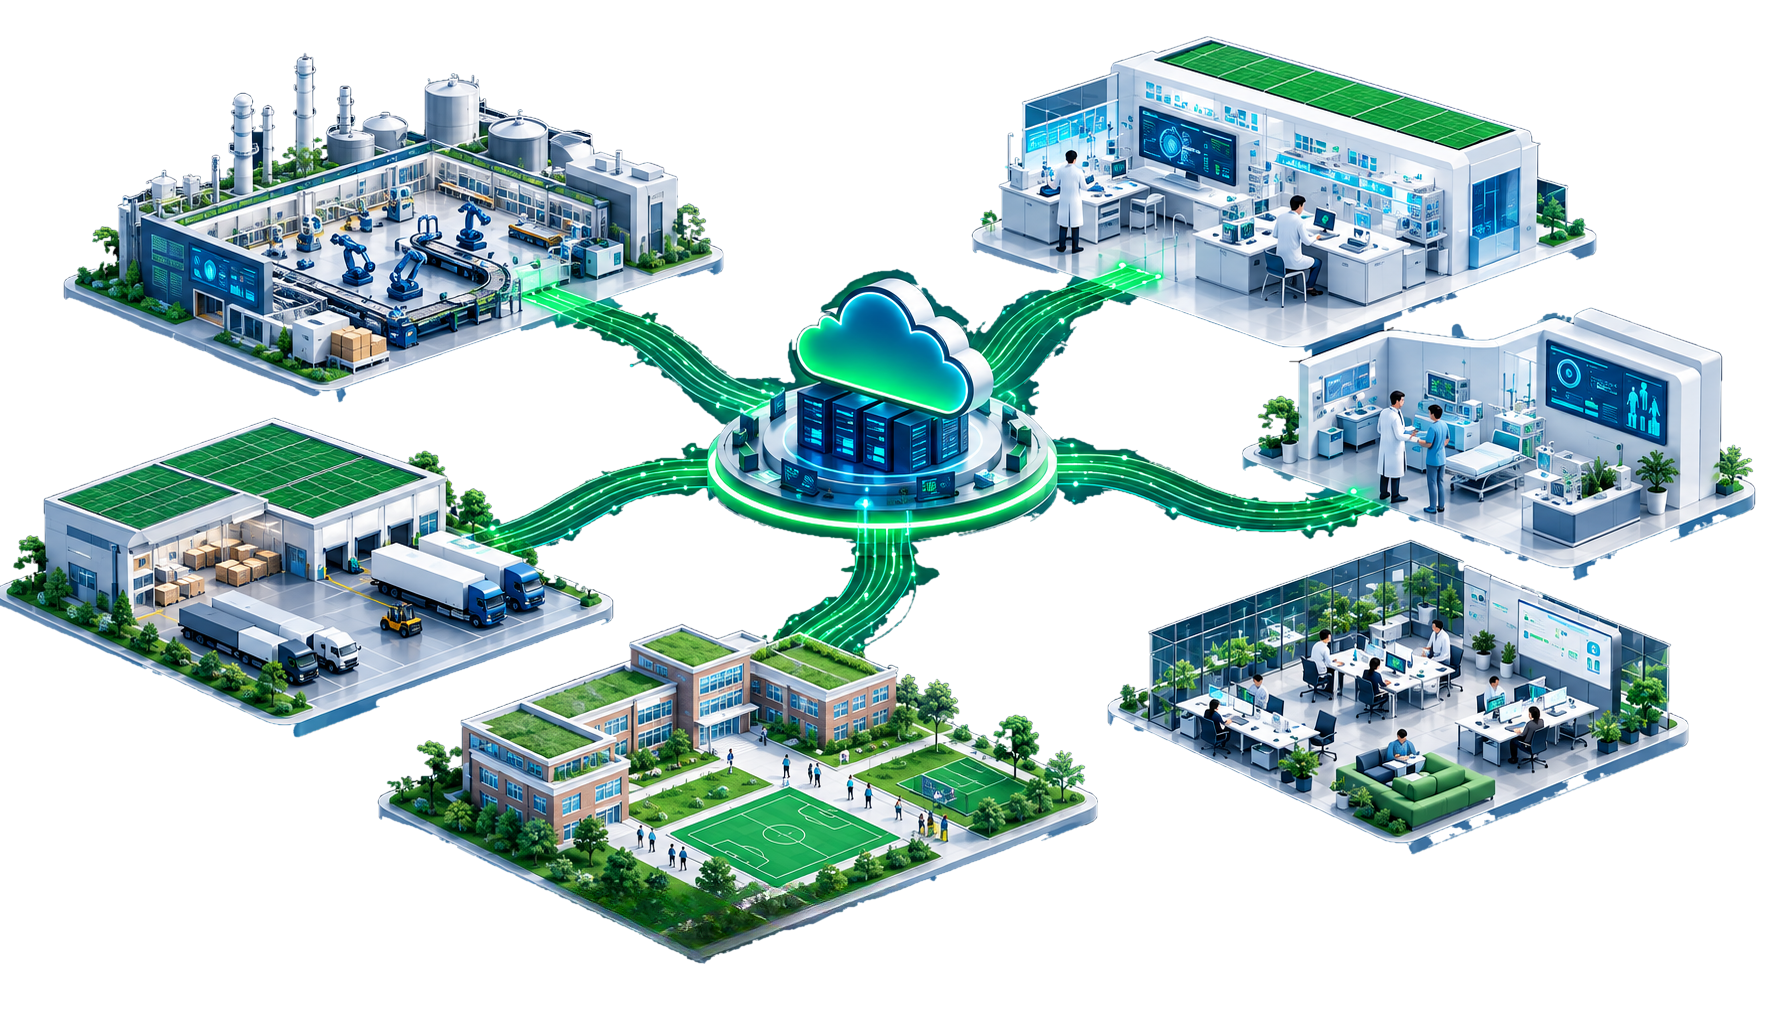
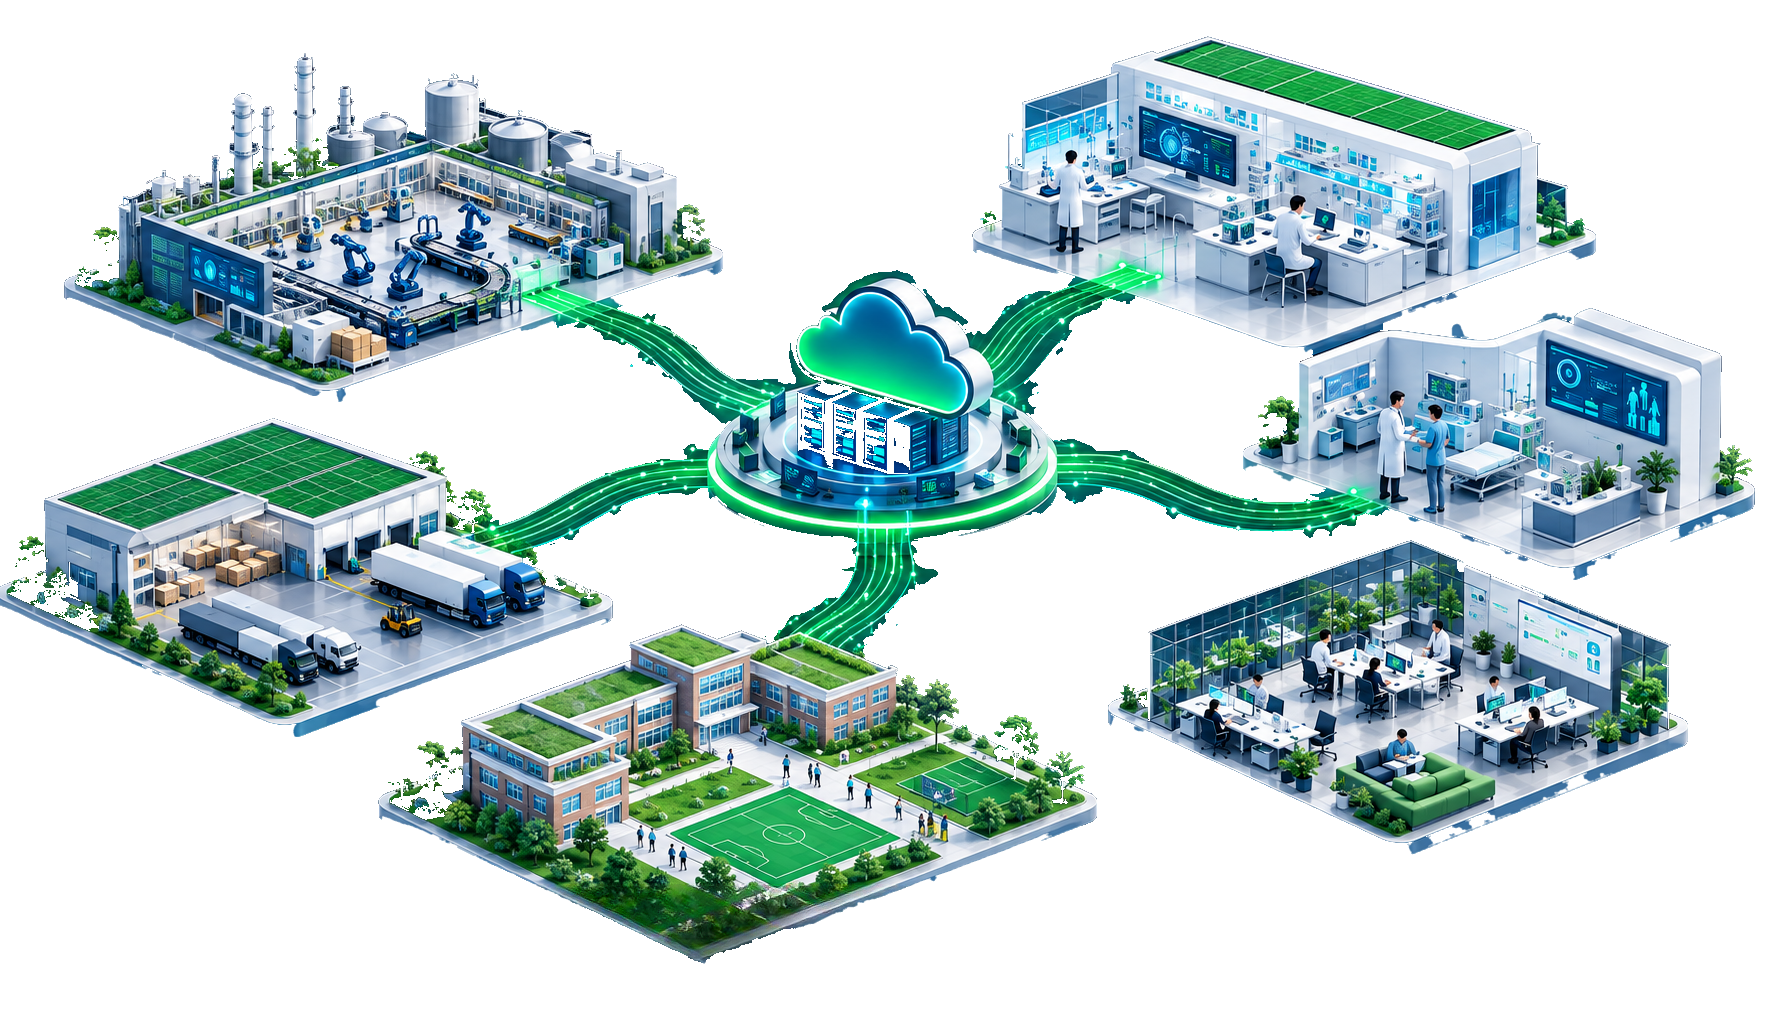
Update Locations page details and enhance CSS styles
- Changed redundancy specification from "N+1" to "2N" for critical systems.
- Updated building area for Indore facility from "3,196 sqft" to "7,196 sqft".
- Modified CSS for hero media and location cards to improve layout and responsiveness, including adjustments to grid structure and image handling.

diff --git a/src/styles/index.css b/src/styles/index.css
@@ -3751,8 +3751,8 @@ body {
 }
 
 .hero-media img {
-  border: 1px solid rgba(255, 255, 255, 0.16);
-  box-shadow: 0 28px 70px rgba(0, 0, 0, 0.24);
+  border: 0;
+  box-shadow: none;
 }
 
 .media-note {
@@ -4846,7 +4846,8 @@ body {
 }
 .location-modern-card {
   display: grid;
-  grid-template-columns: 1fr;
+  grid-template-columns: minmax(380px, 44%) minmax(0, 56%);
+  align-items: stretch;
   min-height: 0;
   overflow: hidden;
   border: 1px solid rgba(0, 52, 93, 0.12);
@@ -4862,6 +4863,7 @@ body {
 }
 .location-modern-media {
   position: relative;
+  min-height: 280px;
   overflow: hidden;
   background: #092b43;
 }
@@ -4877,9 +4879,11 @@ body {
   pointer-events: none;
 }
 .location-modern-media img {
+  position: absolute;
+  inset: 0;
   display: block;
   width: 100%;
-  height: auto;
+  height: 100%;
   object-fit: contain;
   object-position: center;
   transition: transform 0.6s ease;
@@ -5115,6 +5119,14 @@ body {
 }
 
 @media (max-width: 1050px) {
+  .location-modern-card,
+  .location-modern-card:nth-child(even) {
+    grid-template-columns: 1fr;
+  }
+  .location-modern-media {
+    min-height: 0;
+    aspect-ratio: 16 / 9;
+  }
   .location-modern-content {
     padding: 30px;
   }
@@ -6087,8 +6099,9 @@ select {
   object-fit: contain;
   transform: none;
   border: 0;
-  border-radius: 22px;
-  box-shadow: 0 28px 70px rgba(0, 0, 0, 0.24);
+  border-radius: 0;
+  background: transparent;
+  box-shadow: none;
 }
 
 /* All inner-page heroes now use the same centered composition as Pricing. */

diff --git a/src/pages/locations/Locations.jsx b/src/pages/locations/Locations.jsx
@@ -28,7 +28,7 @@ export function Locations() {
       specs: [
         ["IT Capacity", "150–300 KW scalable infrastructure"],
         ["Rack Density", "2–2.5 KW per rack"],
-        ["Redundancy", "N+1 for critical systems"],
+        ["Redundancy", "2N for critical systems"],
         ["Cooling", "Advanced cooling and rack configuration"],
       ],
       highlights: [
@@ -56,7 +56,7 @@ export function Locations() {
         "Indore represents one of Central India’s most dynamic business ecosystems, supported by diversified activity across manufacturing, pharmaceuticals, logistics, IT, and emerging digital enterprises. IND-1 is positioned to support regional demand with reliable connectivity and scalable infrastructure.",
       site: [
         "Single-storey building with administrative area",
-        "Building area: 3,196 sqft",
+        "Building area: 7,196 sqft",
         "On-site parking for 3 vehicles",
         "Secure fencing options",
         "Total technical area: 600–800 sqft per data hall",
